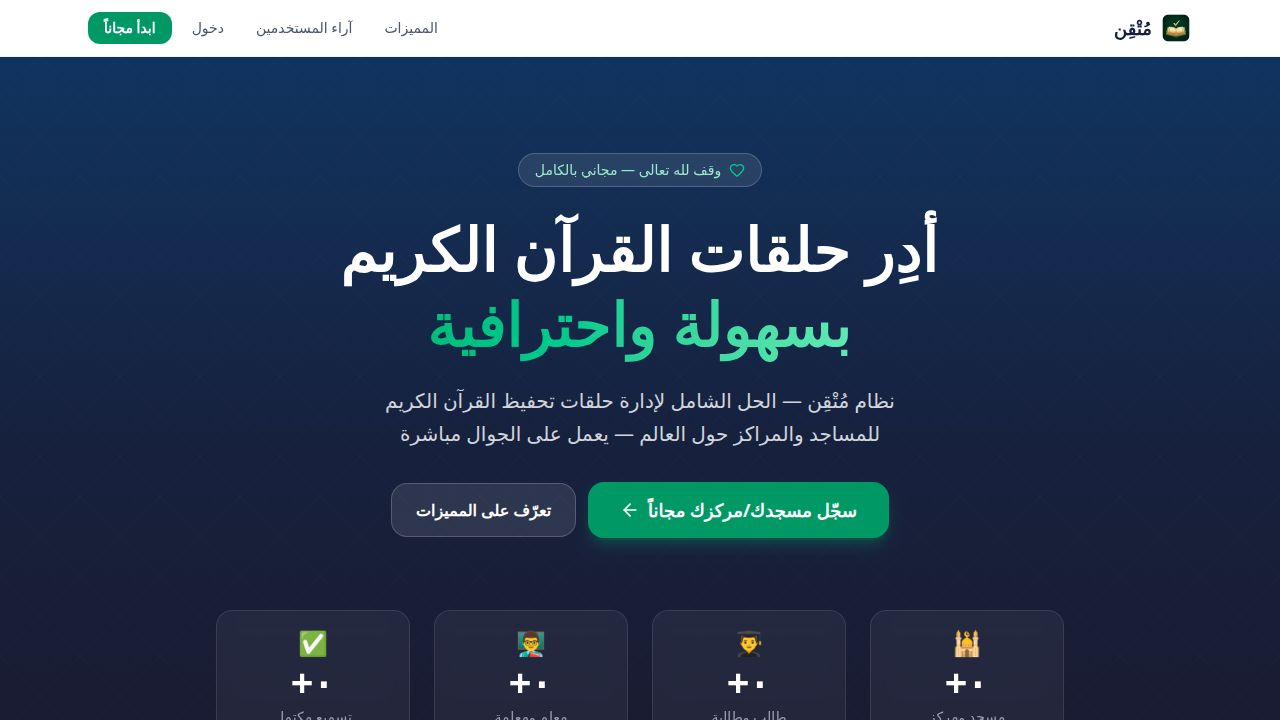
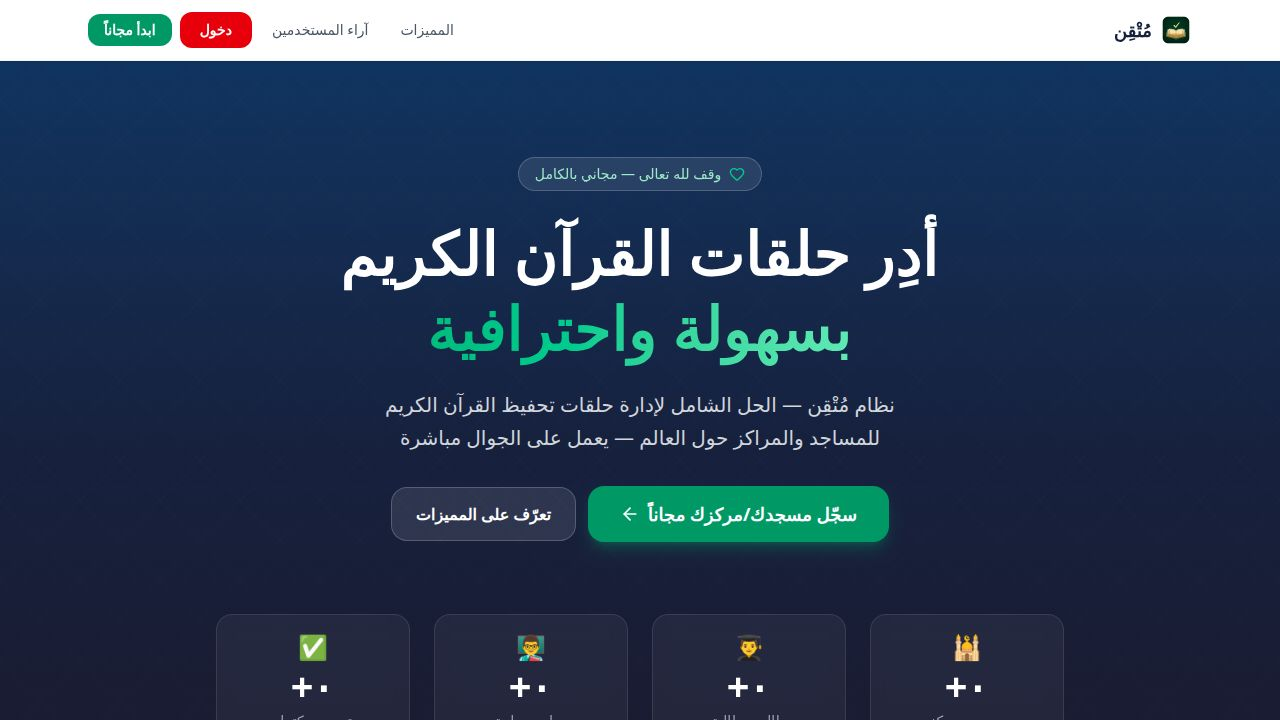
Make the login button larger and red
Update the login button on the landing page with new styling, increasing its size and changing its color to red.

Replit-Commit-Author: Agent
Replit-Commit-Session-Id: 992f2bd2-41fe-4f78-9816-792c92d9af34
Replit-Commit-Checkpoint-Type: full_checkpoint
Replit-Commit-Event-Id: 5071a926-289b-4fde-b4e6-6fe38c0674f6
Replit-Commit-Screenshot-Url: https://storage.googleapis.com/screenshot-production-us-central1/6a2050a8-fd7e-45c1-adf7-1c8fe9224f89/992f2bd2-41fe-4f78-9816-792c92d9af34/yKOEQO3
Replit-Helium-Checkpoint-Created: true

diff --git a/client/src/pages/LandingPage.tsx b/client/src/pages/LandingPage.tsx
@@ -138,7 +138,7 @@ export default function LandingPage() {
           <div className="flex items-center gap-1 sm:gap-2">
             <a href="#features" className="hidden sm:inline text-sm text-gray-600 hover:text-emerald-700 px-3 py-1.5" data-testid="link-nav-features">المميزات</a>
             <a href="#testimonials" className="hidden sm:inline text-sm text-gray-600 hover:text-emerald-700 px-3 py-1.5" data-testid="link-nav-testimonials">آراء المستخدمين</a>
-            <a href="/login" className="text-sm text-gray-600 hover:text-emerald-700 px-3 py-1.5" data-testid="link-login">دخول</a>
+            <a href="/login" className="text-sm bg-red-600 text-white px-5 py-2 rounded-lg font-semibold hover:bg-red-700 transition-colors" data-testid="link-login">دخول</a>
             <a href="#register" className="text-sm bg-emerald-600 text-white px-4 py-1.5 rounded-lg font-semibold hover:bg-emerald-700 transition-colors" data-testid="link-register-top">ابدأ مجاناً</a>
           </div>
         </div>
